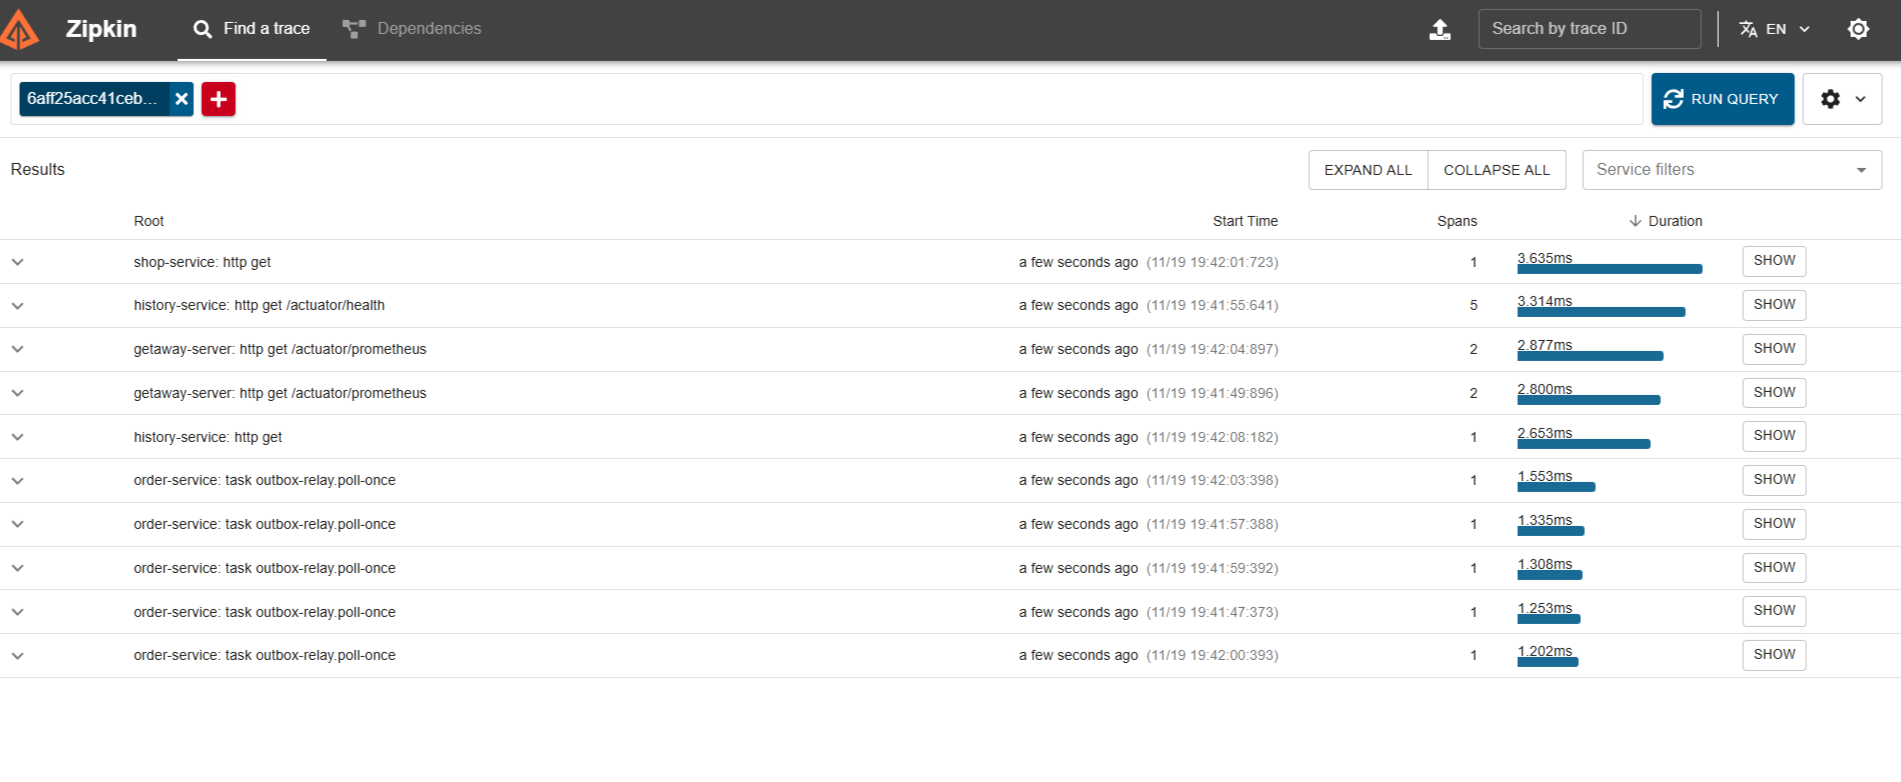
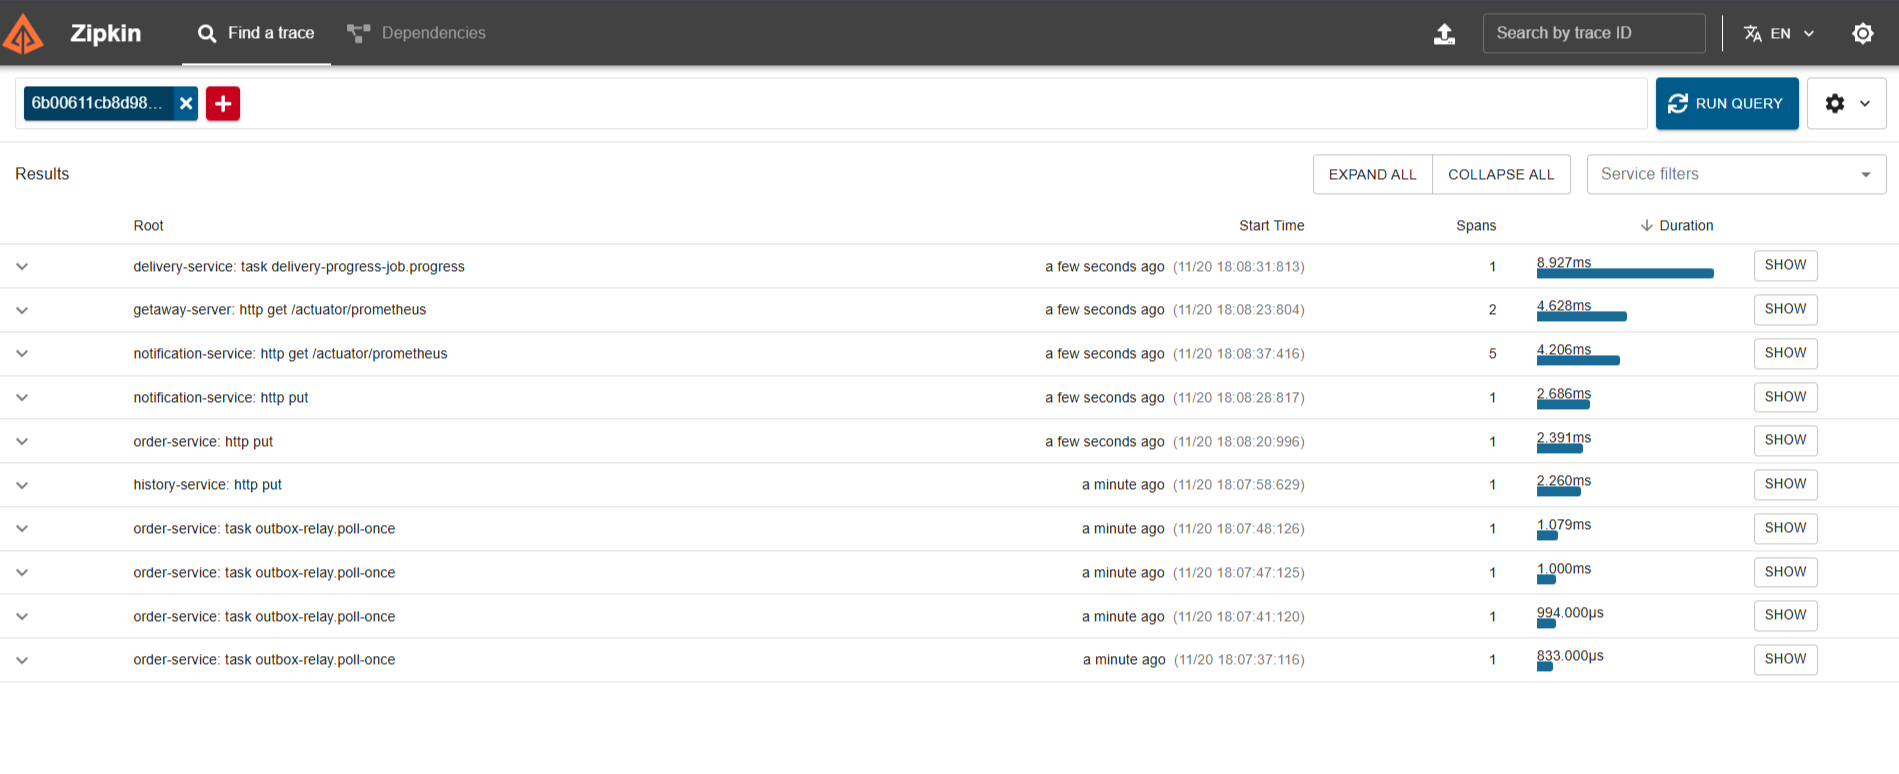
README: скриншот Auth-service в Swagger, обновление скриншотов и путей картинок

diff --git a/README.md b/README.md
@@ -150,13 +150,6 @@ flowchart TB
 
 Все классы, методы и репозитории покрыты javadoc на русском языке (назначение, гарантии целостности, потоки данных), пакеты `web`/`feign`/`dto` имеют `package-info.java` с описанием, какие данные и куда текут.
 
-### Известные ограничения (осознанные решения)
-
-- **Email не верифицируется** при саморегистрации (emailVerified=true сразу) — можно указать чужой адрес, письма о заказах уйдут не тому. Полноценное подтверждение — отдельный флоу Keycloak (verify-email + required action), вне скоупа учебного проекта;
-- **Access-токен удалённого аккаунта жив до exp** (минуты): в этом окне ещё можно создать заказ; refresh-токен уже не сработает — пользователь удалён. Лечится только отзывом сессий через Admin API — не реализовано;
-- **Новые consumer-группы на непустом топике**: delivery-group создана с `auto-offset-reset=earliest` — при первом старте обработала бы всю историю SUCCESS. В новых средах ставьте `latest` или чистите топик перед стартом;
-- **Курьеры могут создавать и оплачивать заказы** (роли на /orders не ограничены) — осознанное решение: курьер одновременно покупатель.
-
 ## Настройка стартовых пользователей в Keycloak:
 В системе зарегистрированы 2 стартовых пользователя:  
 
@@ -174,19 +167,21 @@ flowchart TB
 - роль USER или COURIER назначается автоматически при саморегистрации `POST /auth/api/v1/users`.
 
 ### Общая настройка Keycloak:
-![Схема2](images/keycloak/realm.png)
+![Схема2](images/keycloak/realms.png)
 
-![Схема4](images/keycloak/user.png)
+![Схема3](images/keycloak/users.png)
 Настройка spring-microservices аналогична настройкам в auth-service-client и delivery-service-client
-![Схема5](images/keycloak/spring-microservices_openId.png)
+![Схема4](images/keycloak/spring-microservices_openId.png)
 
-![Схема6](images/keycloak/order-service-client.png)
+![Схема5](images/keycloak/order-service-client.png)
 
-## Order-service API, Shop-service API и Auth-service API в Swagger:
+## Auth-service, Order-service API и Shop-service API в Swagger:
 
 Эндпоинты для создания, оплаты, возврата заказов, добавления, изменения, удаления и получения товара/товаров,
 саморегистрации пользователя/курьера и удаления аккаунта,
 а также кнопка аутентификации посредством OAuth 2.0 с помощью Keycloak представлены в Swagger.
+
+![Схема6](images/swagger/auth-service.png)
 
 ![Схема7](images/swagger/order-service.png)
 
@@ -799,7 +794,7 @@ sequenceDiagram
 
 ELK - система для сбора, хранения и мониторинга логов в системе.
 
-![Схема11](images/мониторинг/elk.jpg)
+![Схема11](images/мониторинг/elk.png)
 
 Prometheus и Grafana - для сбора и визуализации метрик.
 
